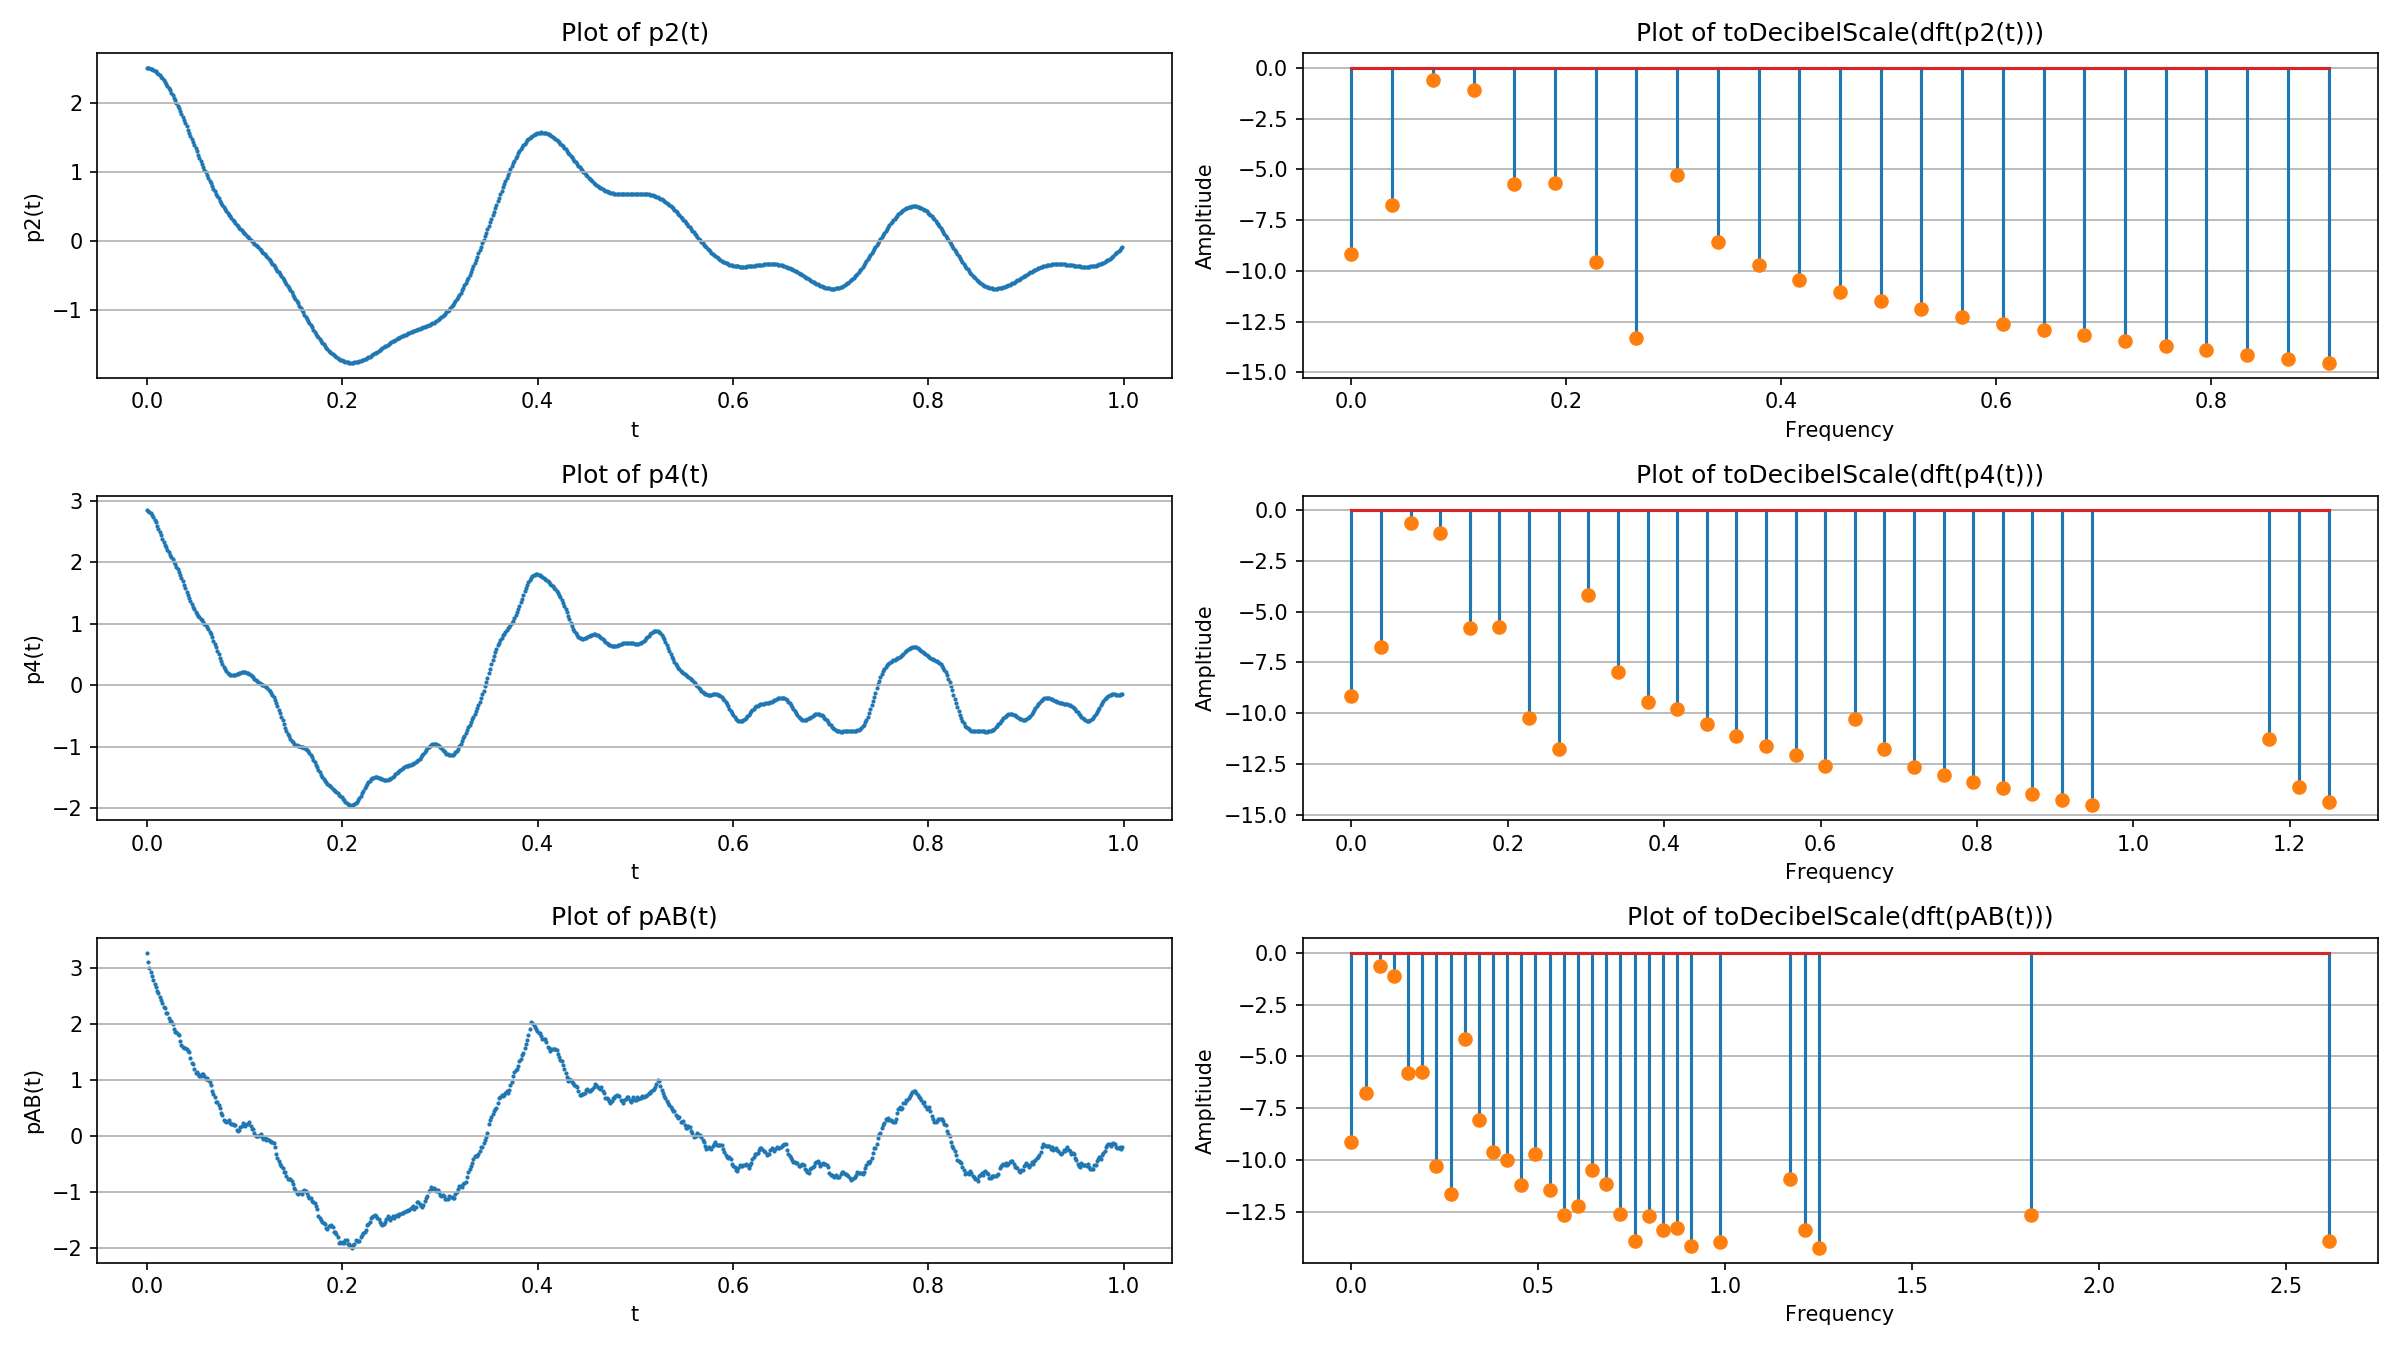
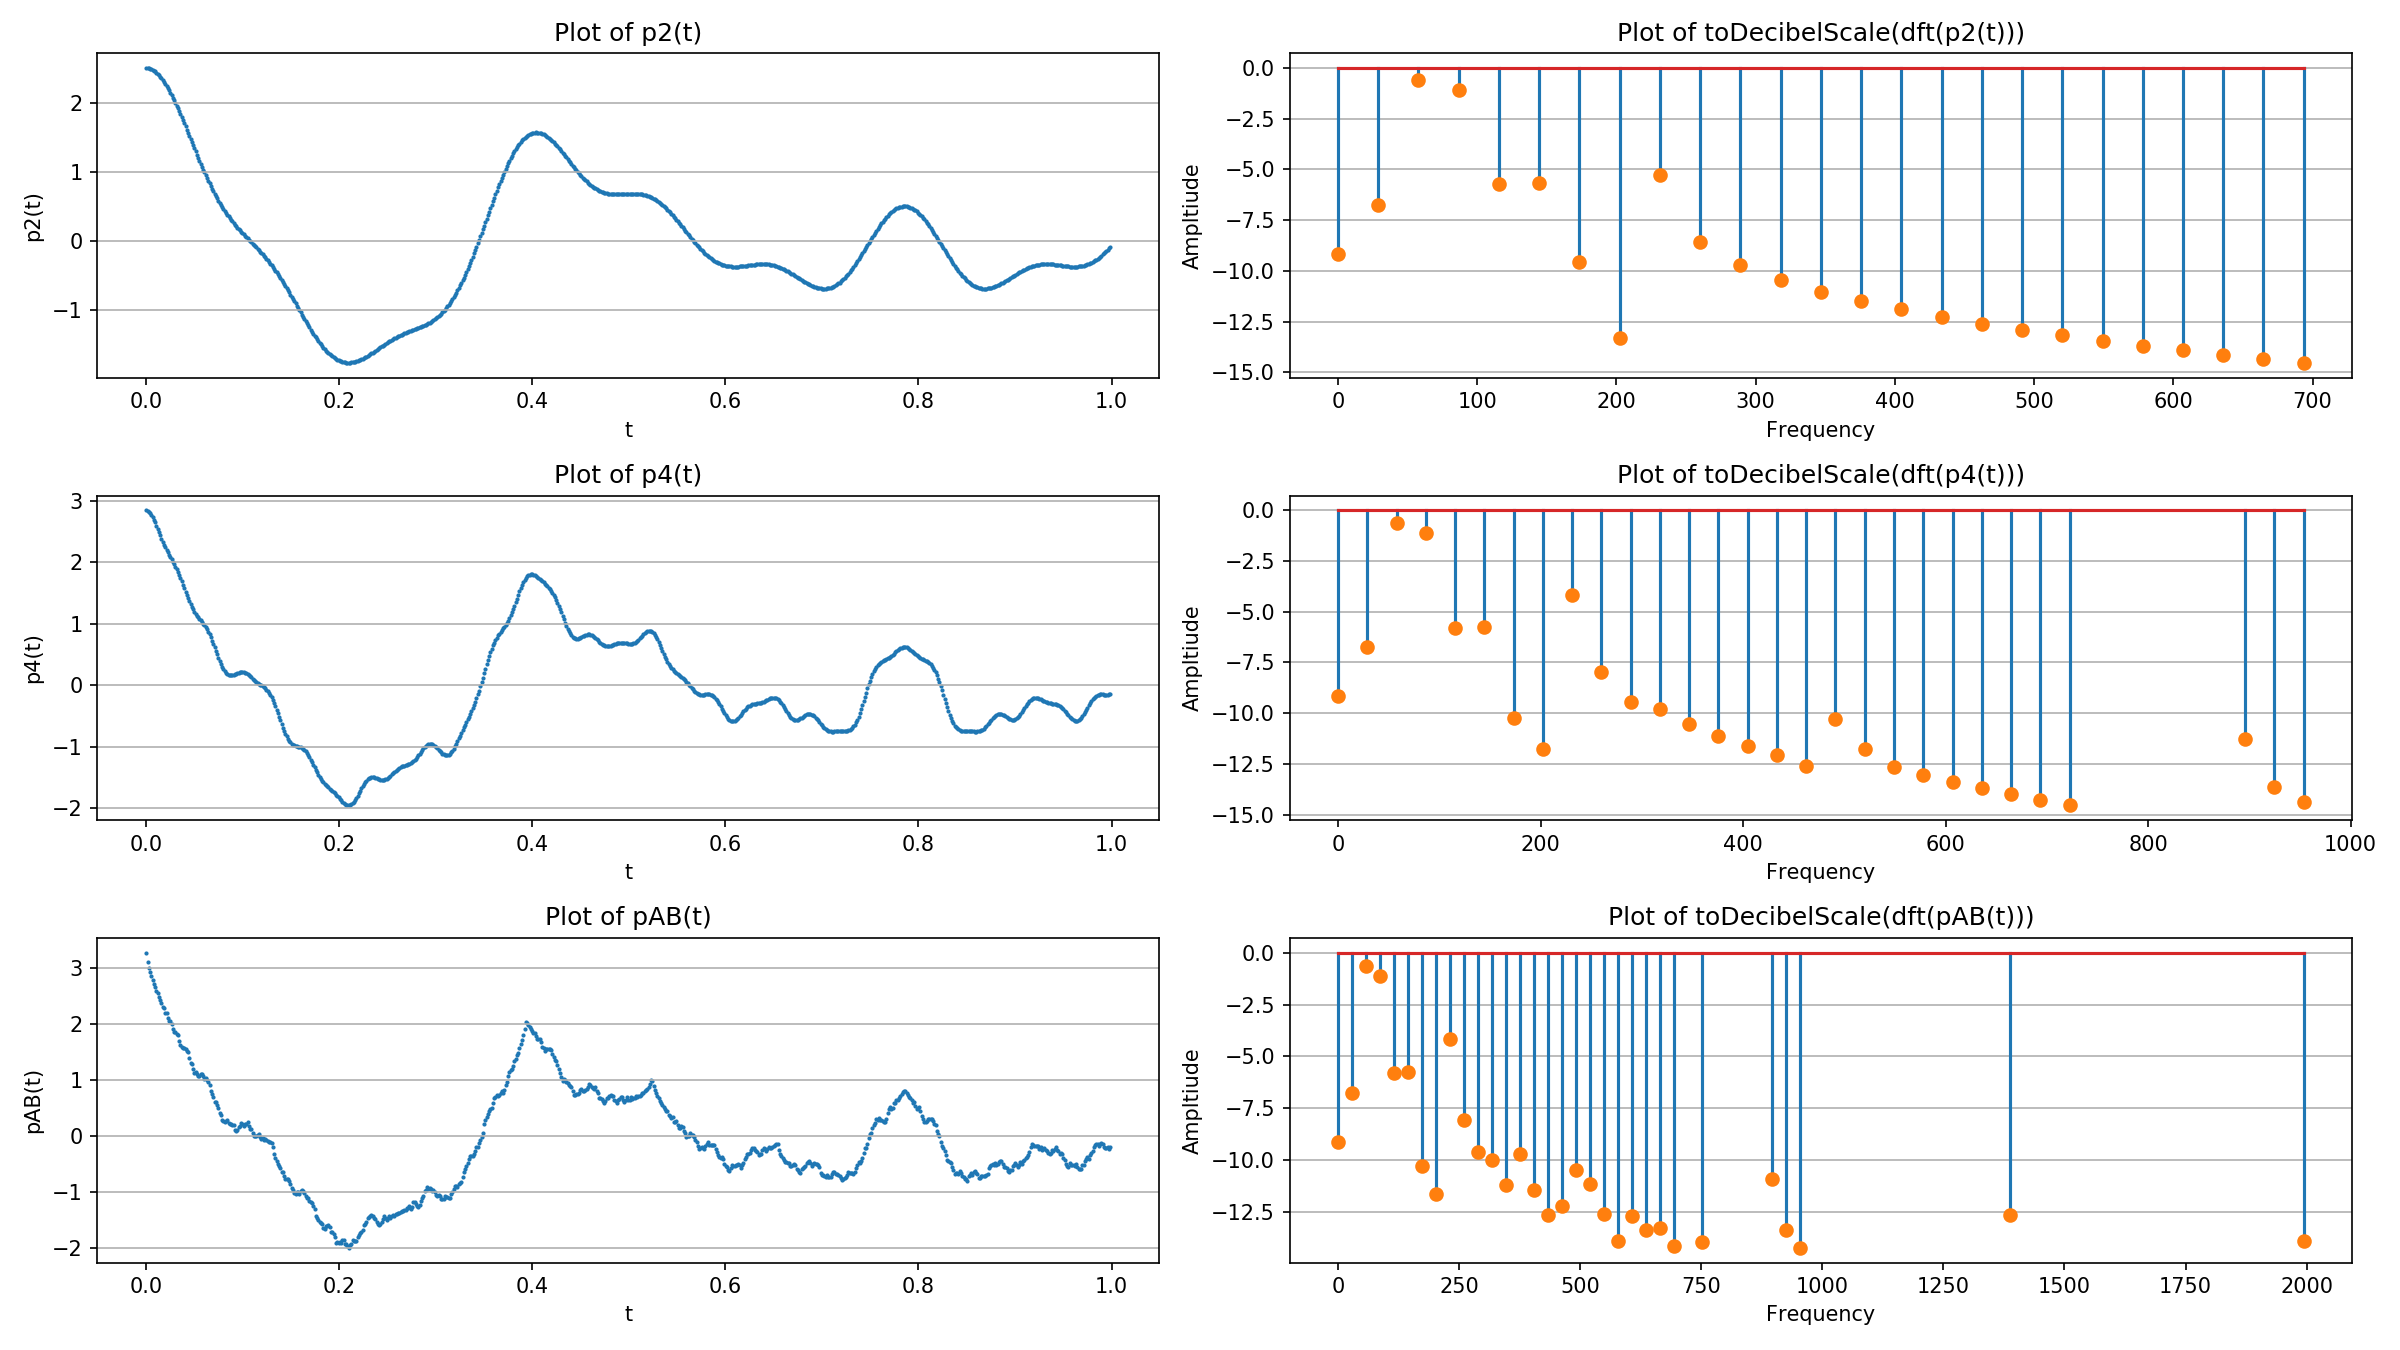
Fixes y label so it displays frequency correctly;

diff --git a/LAB_03/LAB_03.cpp b/LAB_03/LAB_03.cpp
@@ -180,7 +180,7 @@ void secondAndFourthTask()
 void thirdSubTask(std::string filename)
 {
 	const double SAMPLE_COUNT = A * 100 + B * 10 + C;
-	const double SAMPLING_FREQENCY = 22050 / SAMPLE_COUNT;
+	const double SAMPLING_FREQENCY = 22050;
 	auto values = getEveryNthSample(readInputFile(filename + ".csv"), SAMPLE_COUNT);
 	auto tValues = getTValuesColumn(values);
 	auto yValues = getYValuesColumn(values);
